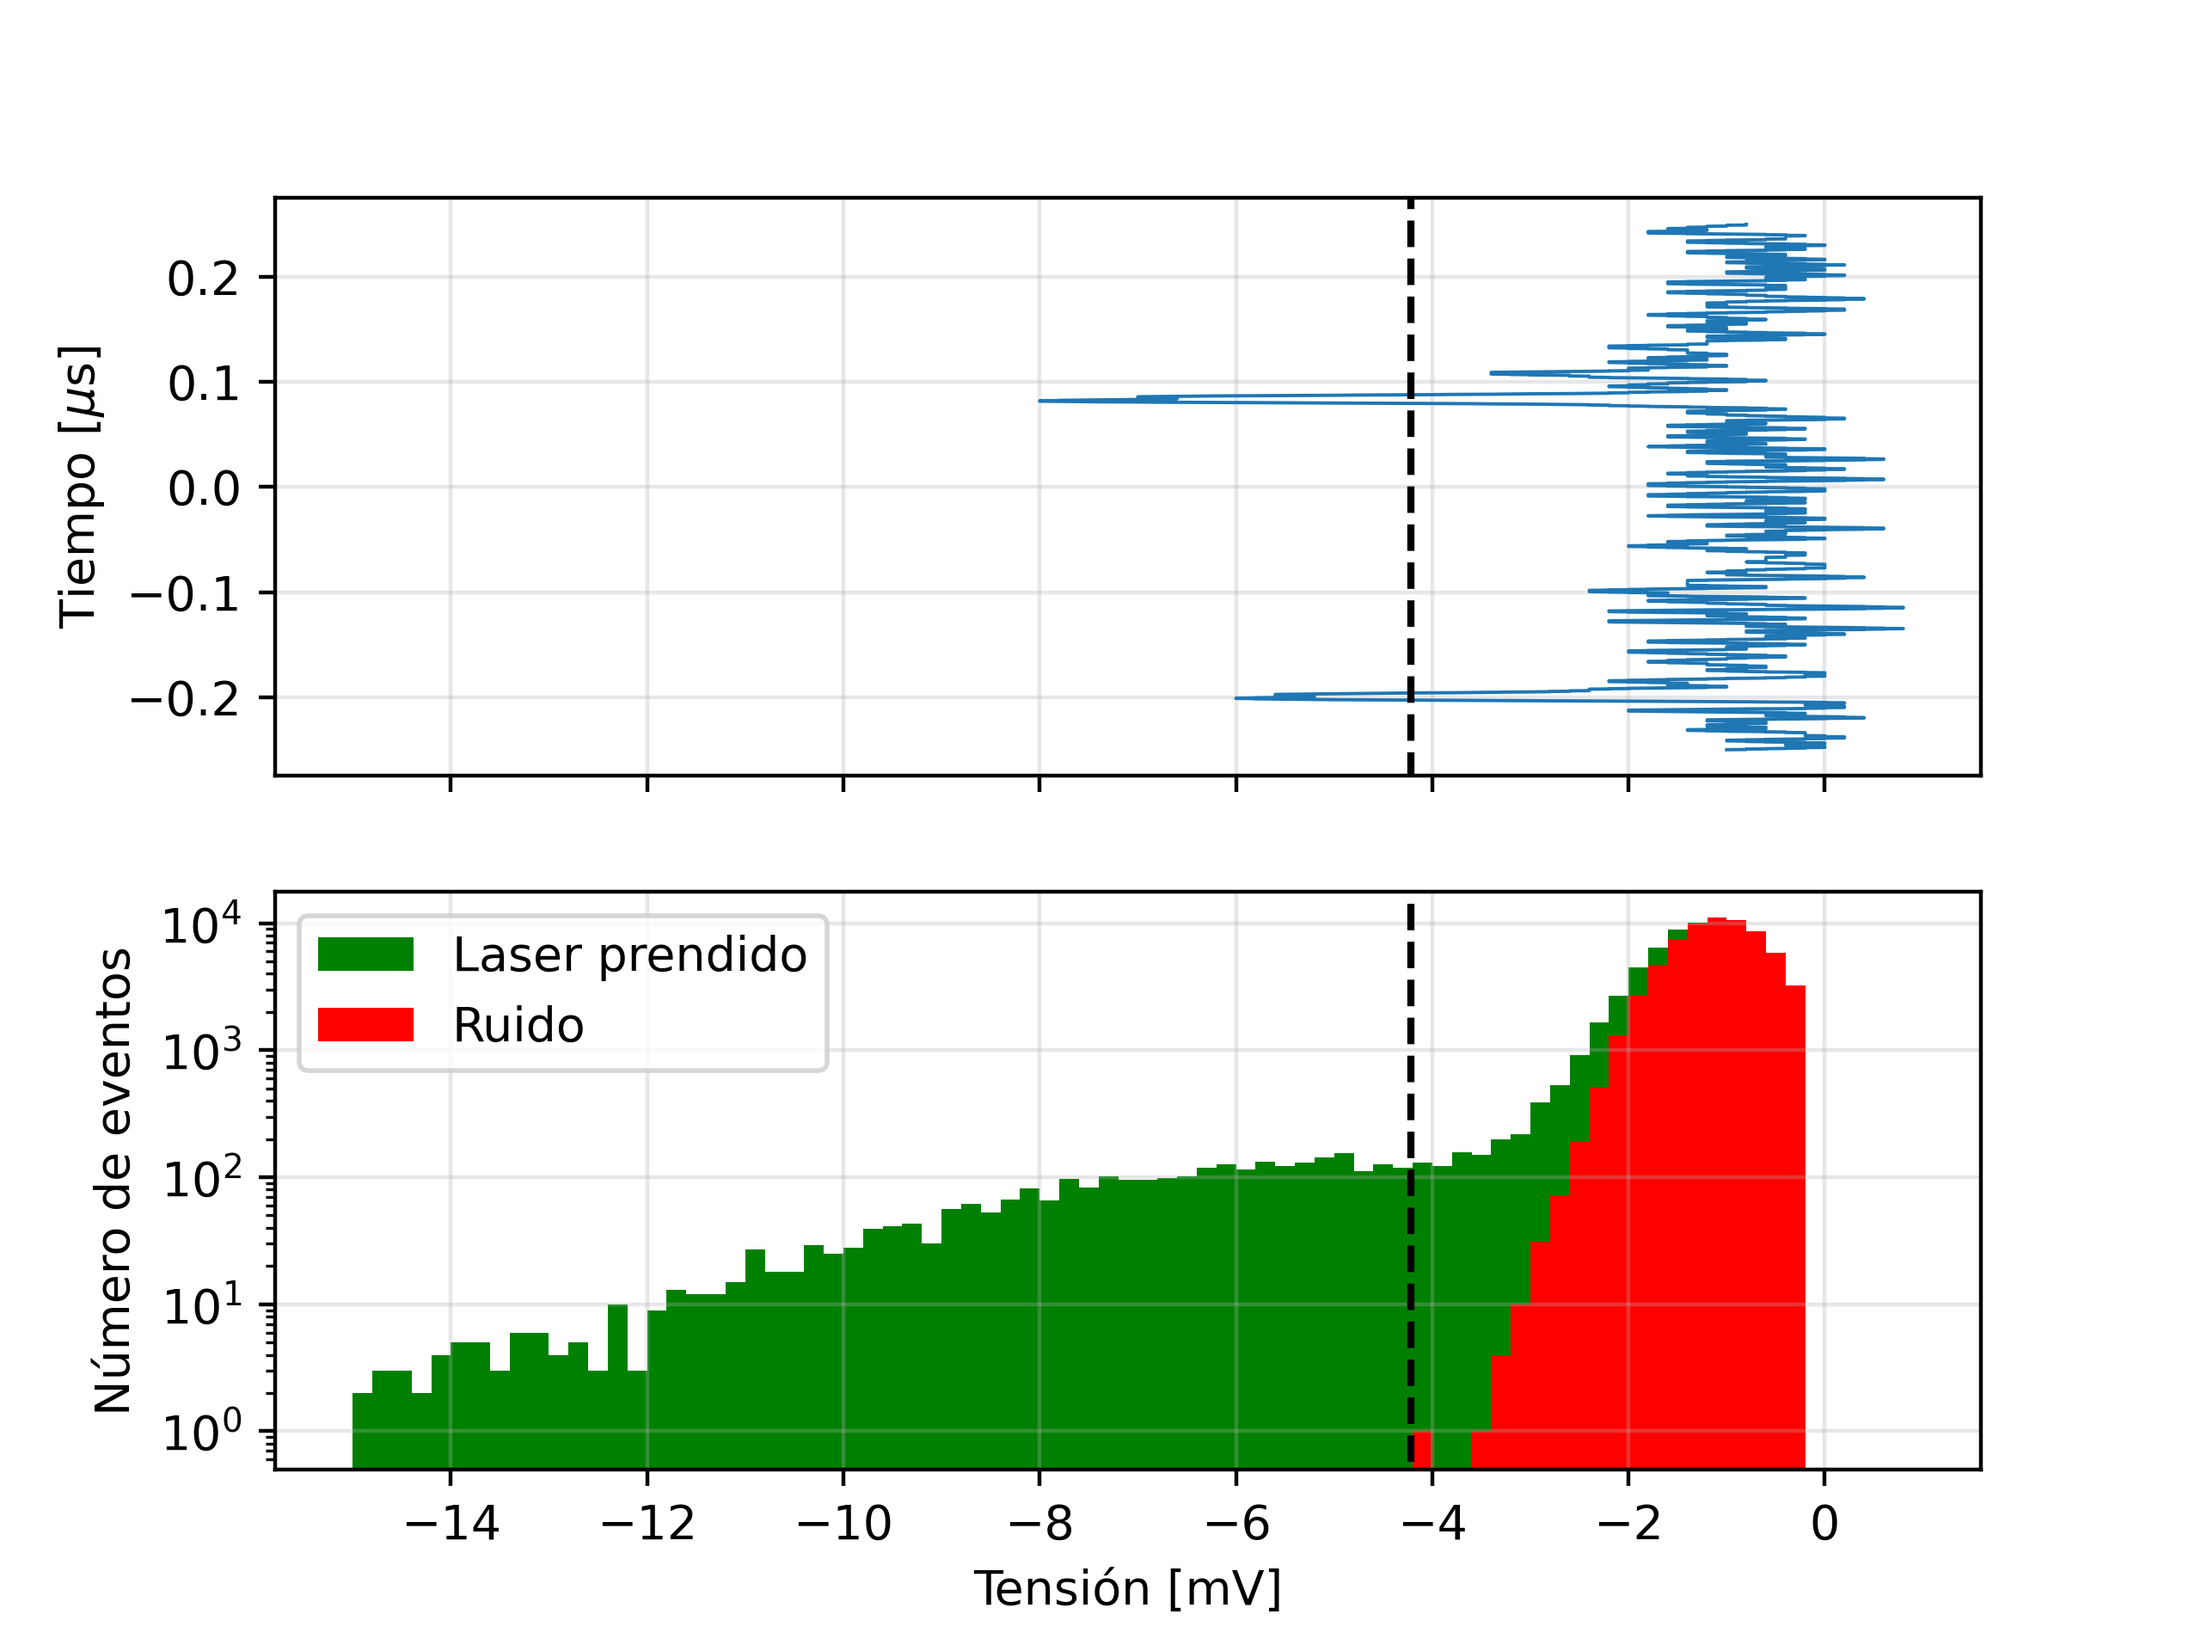
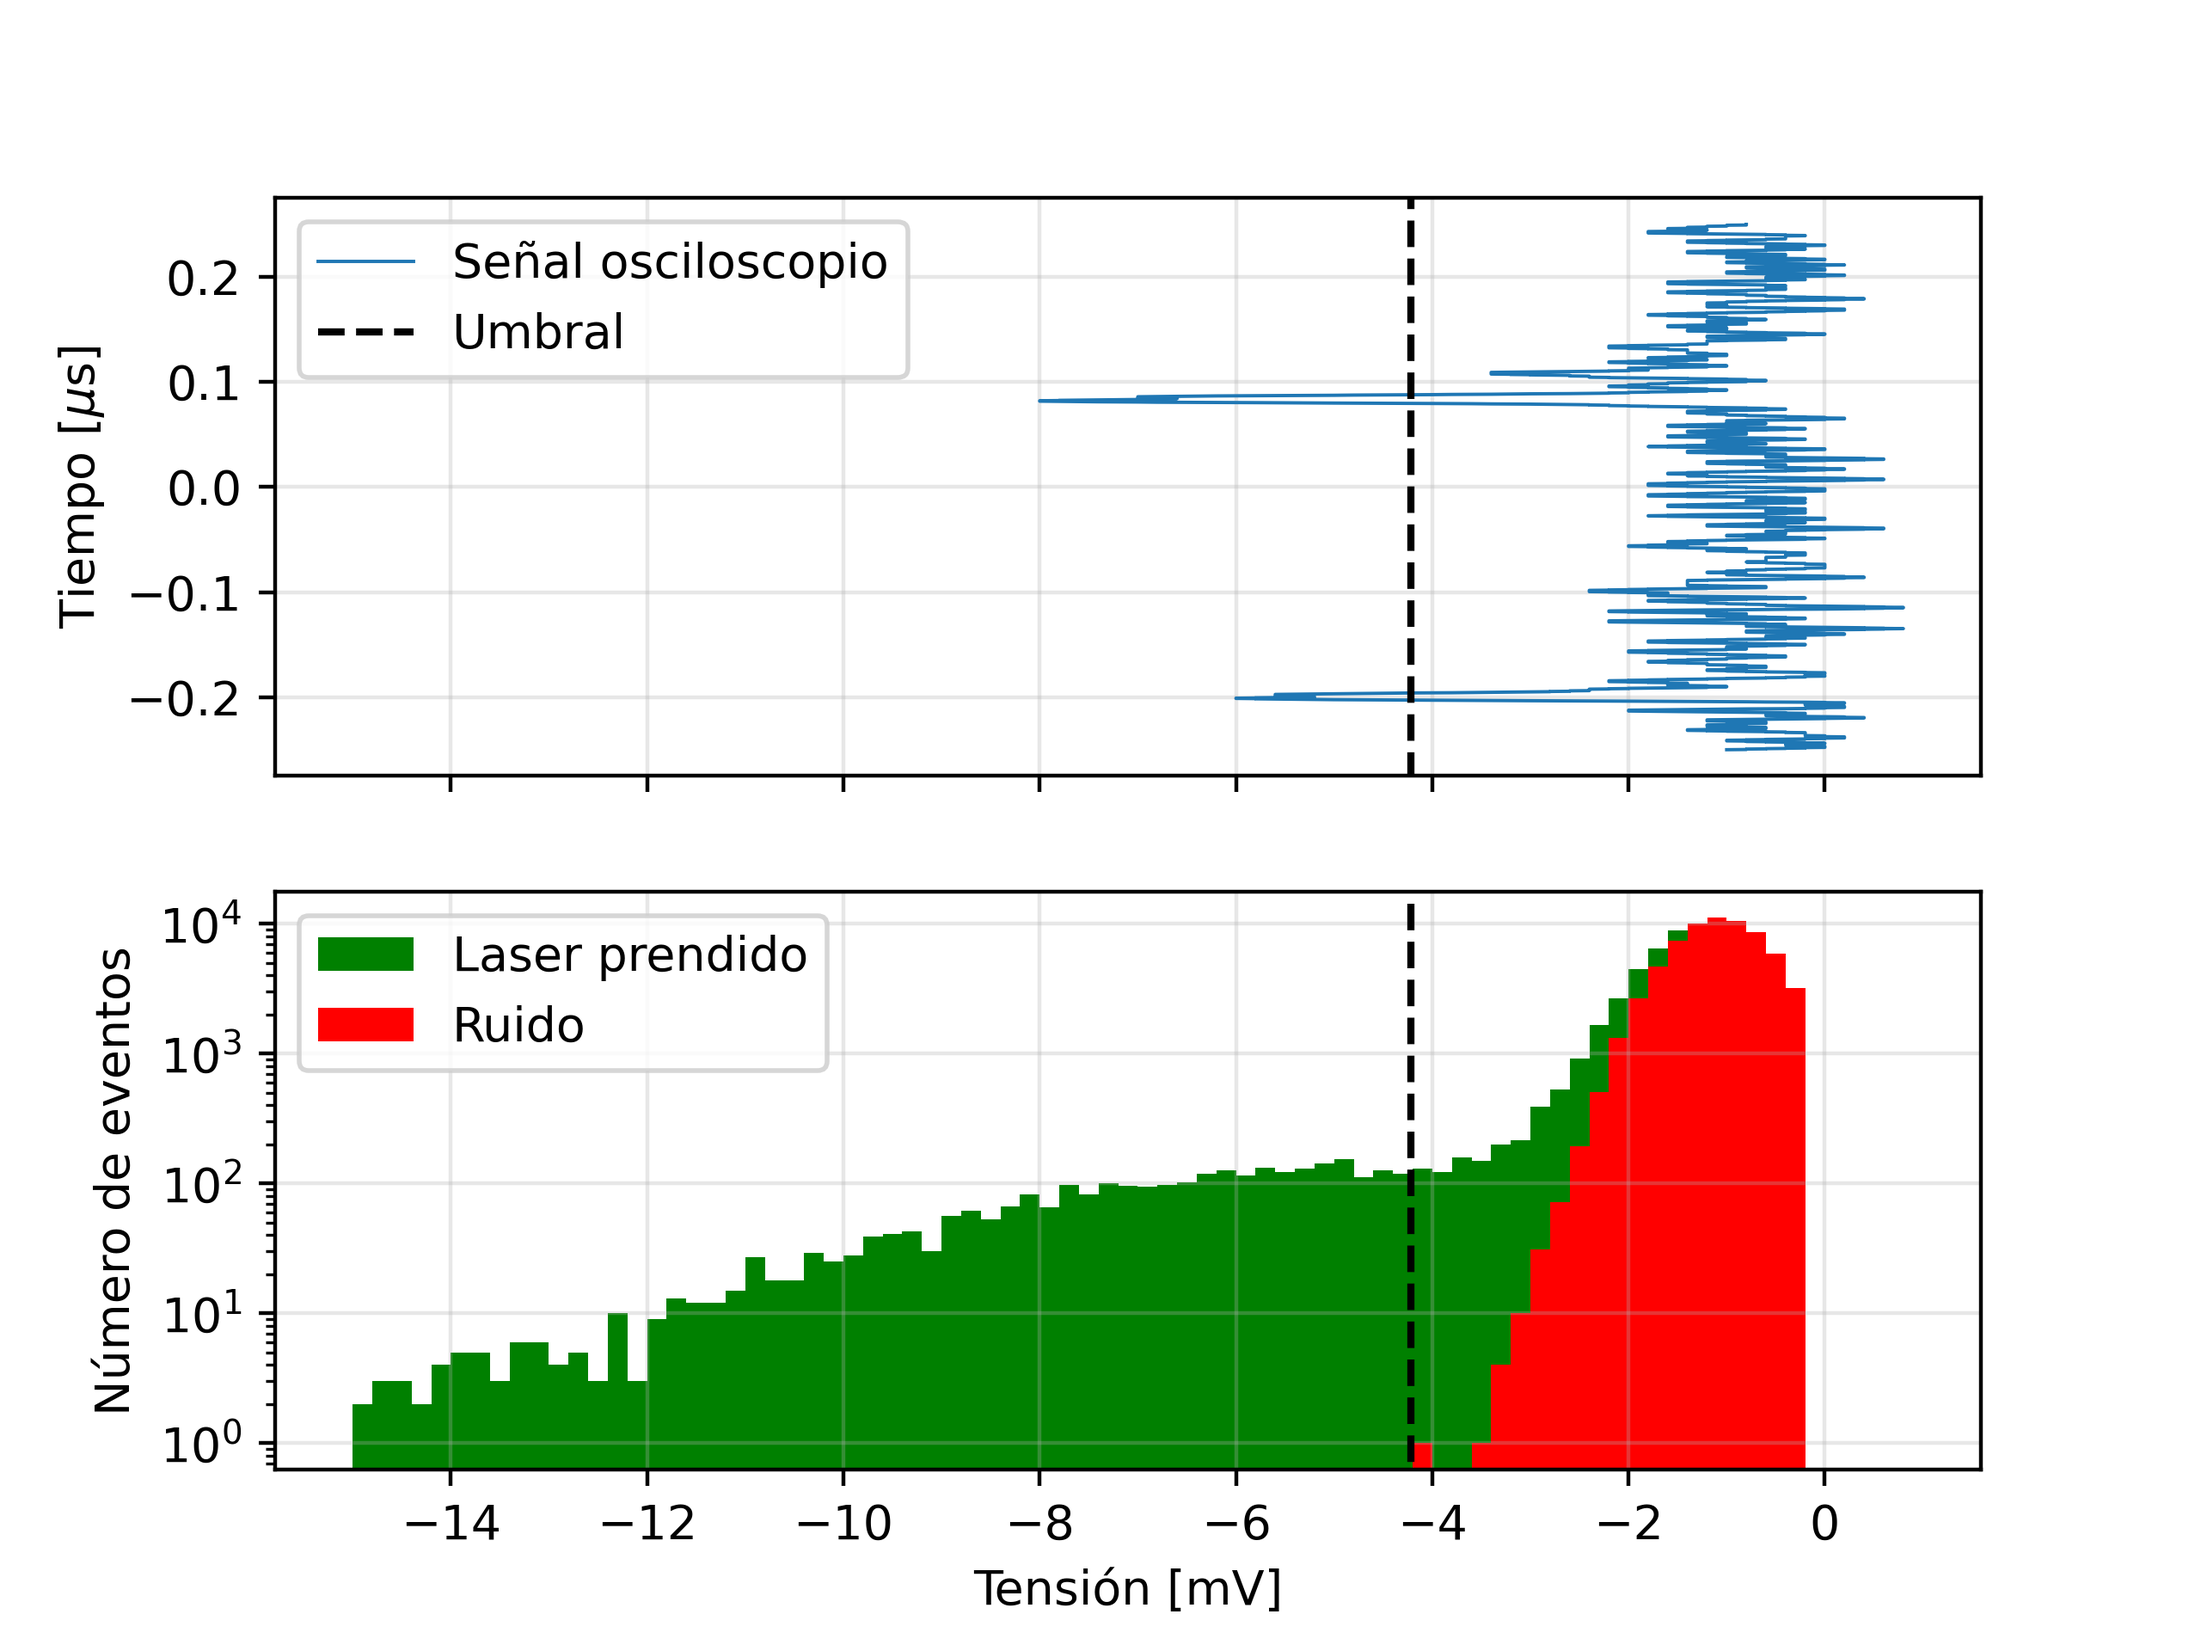
Ultimos detalles figura presentacion

diff --git a/conteo/analisis_conteo.py b/conteo/analisis_conteo.py
@@ -57,10 +57,11 @@ umbral = -0.00422
 
 fig, axs = plt.subplots(2, 1, sharex=True)
 
-axs[0].plot(medicion['tension']*1e3, medicion['tiempo']*1e6, linewidth=0.7)
+axs[0].plot(medicion['tension']*1e3, medicion['tiempo']*1e6, linewidth=0.7, label='Señal osciloscopio')
 ylim = axs[0].get_ylim()
-axs[0].vlines(umbral*1e3, -1, 1, linestyles='dashed', colors='black')
+axs[0].vlines(umbral*1e3, -1, 1, linestyles='dashed', colors='black', label='Umbral')
 axs[0].set_ylim(ylim)
+axs[0].legend(loc='upper left')
 axs[0].set_ylabel('Tiempo [$\mu$s]')
 axs[0].grid(visible = True, alpha=0.3)
 
@@ -81,7 +82,6 @@ axs[1].legend(loc='upper left')
 axs[1].set_xlabel('Tensión [mV]')
 axs[1].set_ylabel('Número de eventos')
 axs[1].grid(visible = True, alpha=0.3)
-axs[1].set_yscale('log')
-axs[1].set_ylim(0, ylim[-1])
+axs[1].set_ylim(ylim)
 plt.savefig('./output/conteo/ruido-umbral-ej.png', dpi=400)
 plt.show()
